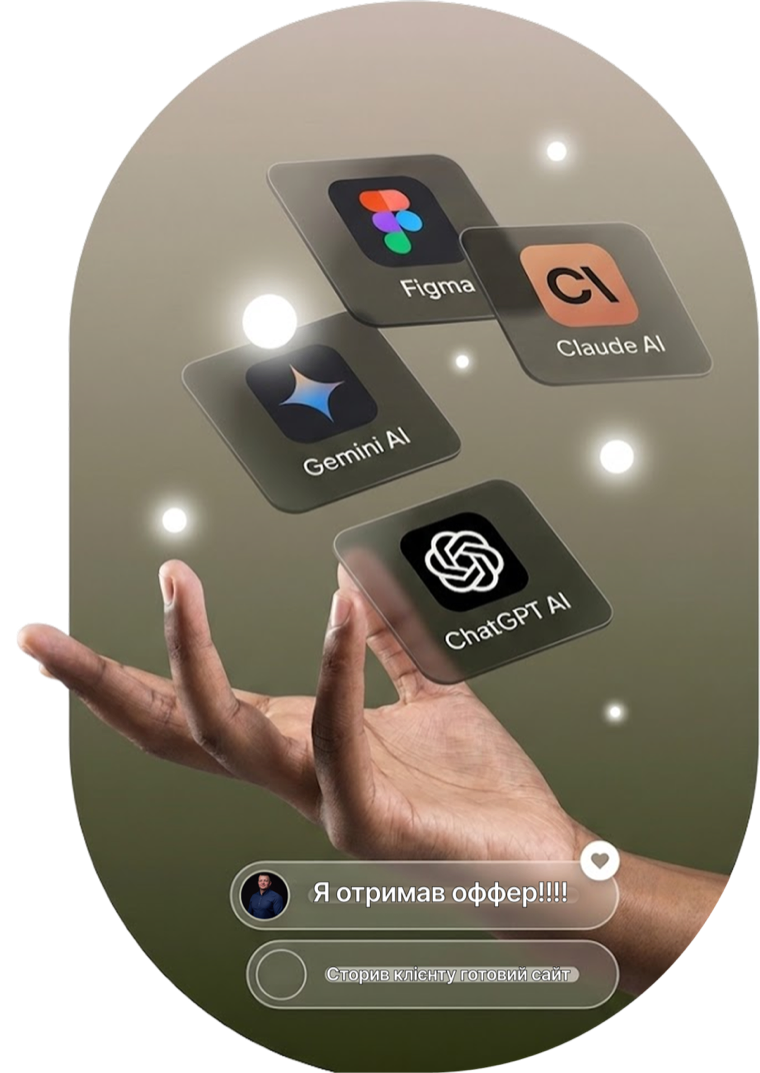
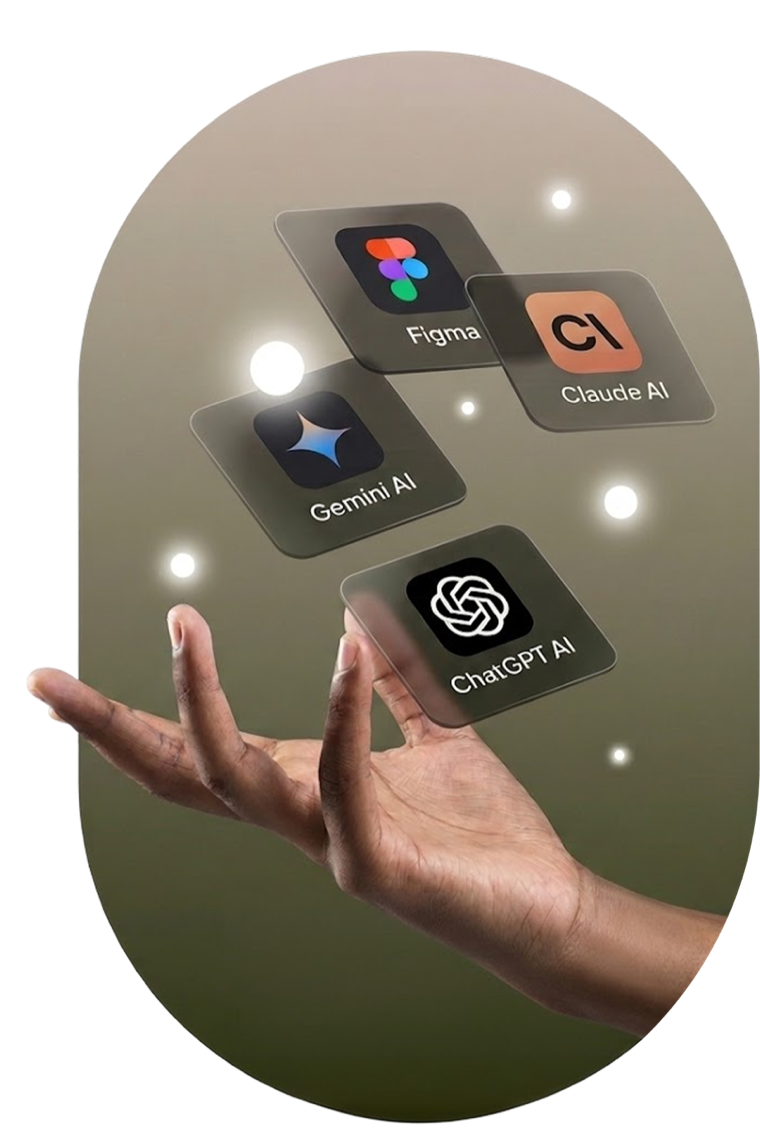
fix(hero): new image, fix h1 wrap, label overlay on image bottom
- Replace hero image (updated asset, bug fixed) — WebP 58KB + PNG fallback
- Restore controlled <br> line breaks in h1 so 'у щоденній роботі' no
  longer starts with a stray leading space from the split-text spacer
- Move the 'Практикум для дизайнерів' chip to overlay the image's bottom
  edge (centered, ~half over the image, above it in z-order) to cover the
  slightly-cropped element there; opaque white pill for clean coverage

diff --git a/index.html b/index.html
@@ -207,9 +207,16 @@ p { margin-bottom: 12px; color: var(--ink-2); }
 .hero-text p { font-size: 17px; color: var(--ink-2); max-width: 520px; margin: 0 0 28px; line-height: 1.6; }
 .hero-text .cta { margin-bottom: 12px; }
 .hero-text .badges { justify-content: flex-start; }
-.hero-media { position: relative; }
-.hero-media img {
-  display: block; width: 100%; max-width: 460px; height: auto; margin-left: auto;
+.hero-media { position: relative; display: flex; justify-content: flex-end; }
+.hero-media-frame { position: relative; width: 100%; max-width: 460px; }
+.hero-media-frame img { display: block; width: 100%; height: auto; }
+/* Label chip sits centered on the image's bottom edge (~half overlapping
+   onto the image) so it covers the slightly-cropped element there */
+.hero-label {
+  position: absolute; left: 50%; bottom: 0; transform: translate(-50%, 50%);
+  z-index: 3; margin: 0; white-space: nowrap;
+  background: var(--surface); border: 1px solid var(--hairline);
+  box-shadow: var(--sh-md);
 }
 @media (max-width: 900px) {
   .hero { min-height: 0; padding: 64px 0 32px; }
@@ -217,7 +224,8 @@ p { margin-bottom: 12px; color: var(--ink-2); }
   .hero-text { text-align: center; }
   .hero-text p { margin-left: auto; margin-right: auto; }
   .hero-text .badges { justify-content: center; }
-  .hero-media img { margin: 0 auto; max-width: 320px; }
+  .hero-media { justify-content: center; }
+  .hero-media-frame { max-width: 320px; }
 }
 
 /* Split text animation (gentle) */
@@ -594,8 +602,7 @@ p { margin-bottom: 12px; color: var(--ink-2); }
 <section class="hero">
   <div class="container hero-inner">
     <div class="hero-text">
-      <div class="label">Практикум для дизайнерів</div>
-      <h1 class="split-text" data-split>Навчись використовувати AI у щоденній роботі дизайнера</h1>
+      <h1 class="split-text" data-split>Навчись<br>використовувати AI<br>у щоденній роботі<br>дизайнера</h1>
       <p>Реальні воркфлоу, які я використовую на основній роботі. Від налаштування інструментів до свого продукту — без навичок програмування.</p>
       <a href="https://payhip.com/buy?link=efnEH" target="_blank" class="cta cursor-target">Отримати доступ — $49</a>
       <p class="subtext">Доступ до матеріалів та всіх оновлень — назавжди.</p>
@@ -606,10 +613,13 @@ p { margin-bottom: 12px; color: var(--ink-2); }
       </div>
     </div>
     <div class="hero-media">
-      <picture>
-        <source srcset="Images/hero.webp" type="image/webp" />
-        <img src="Images/hero.png" alt="Рука тримає AI-інструменти дизайнера: Figma, Claude AI, Gemini AI, ChatGPT" />
-      </picture>
+      <div class="hero-media-frame">
+        <picture>
+          <source srcset="Images/hero.webp" type="image/webp" />
+          <img src="Images/hero.png" alt="Рука тримає AI-інструменти дизайнера: Figma, Claude AI, Gemini AI, ChatGPT" />
+        </picture>
+        <div class="label hero-label">Практикум для дизайнерів</div>
+      </div>
     </div>
   </div>
 </section>
